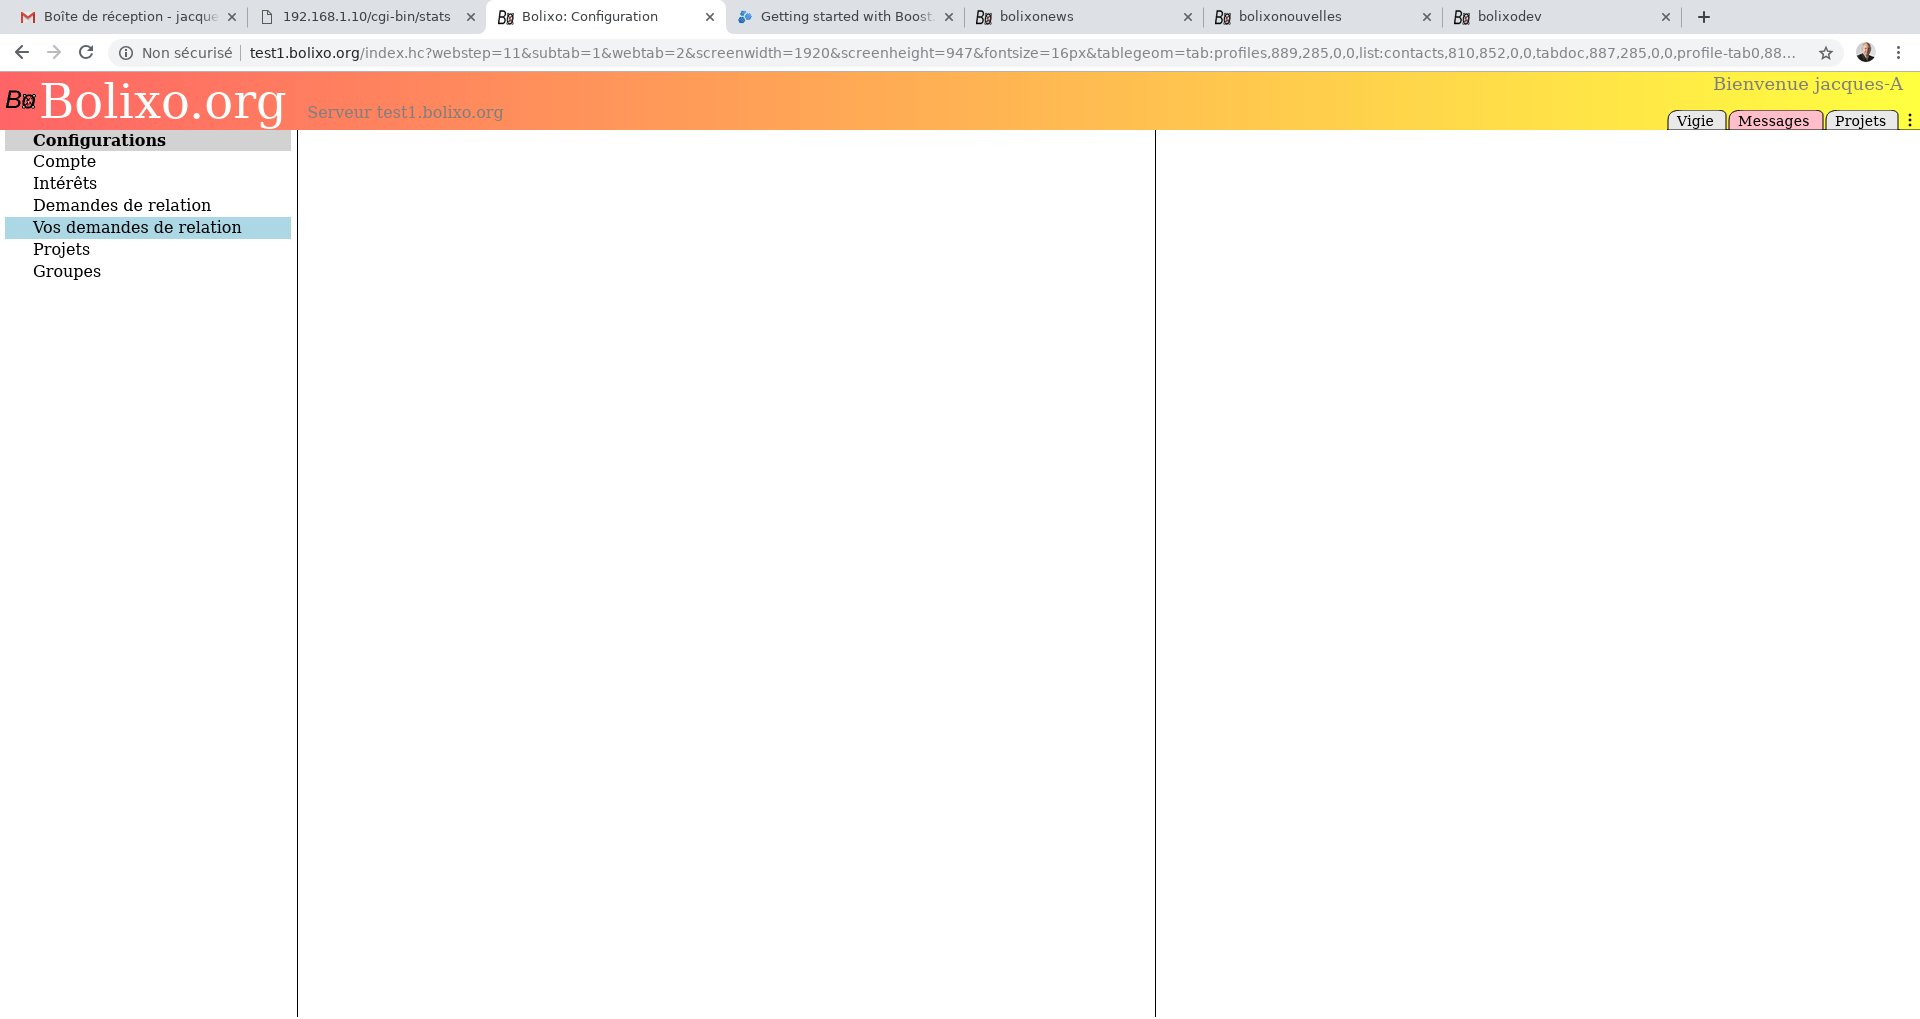
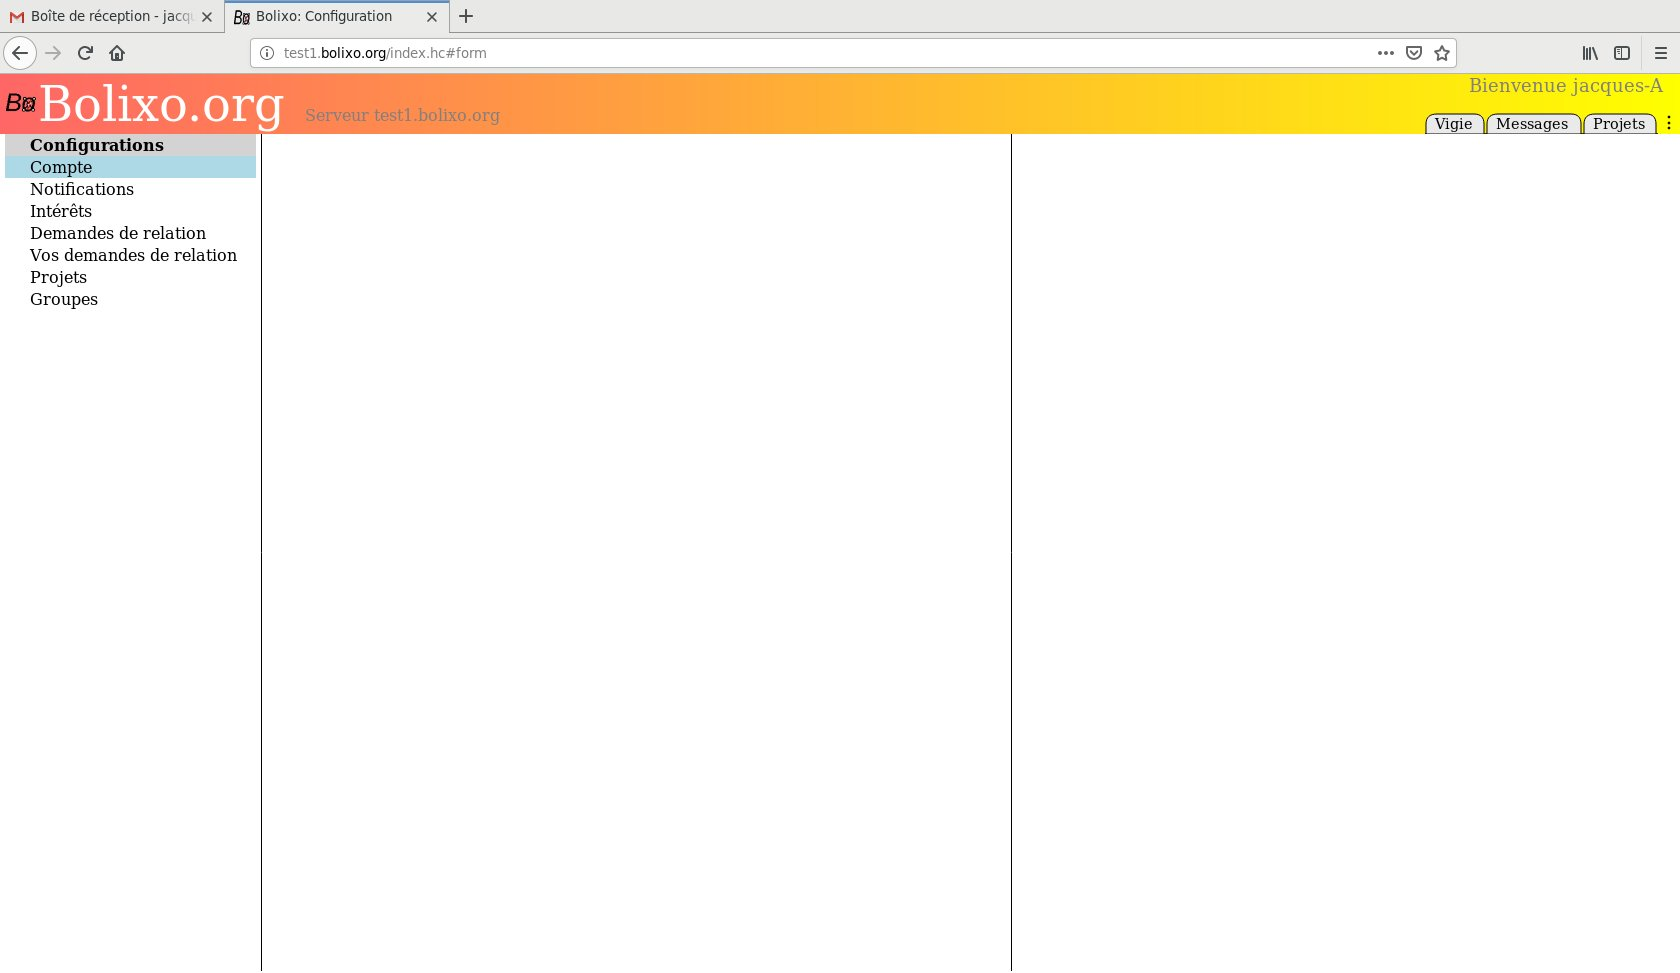
New documentation for notifications, including few screen shots.
git-svn-id: https://solucorp.bolixo.org/repos/solucorp/bolixo/trunk@3536 c3086684-d568-4a45-a57d-89166b08296d

Changed region(s): [[0.0, 0.0, 1.0, 0.3083]]

diff --git a/web/document.h b/web/document.h
@@ -34,6 +34,7 @@ EXTERN DOC_ID section_profile;
 void jump2app (int step, PARAM_STRING webtab_add);
 void jump2app (int step, int tab);
 void jump_config_account();
+void jump_config_notifications();
 void jump_config_interests();
 void jump_config_contacts();
 void jump_config_contact_req();
